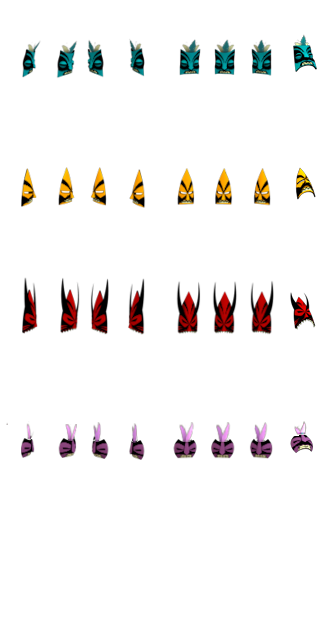
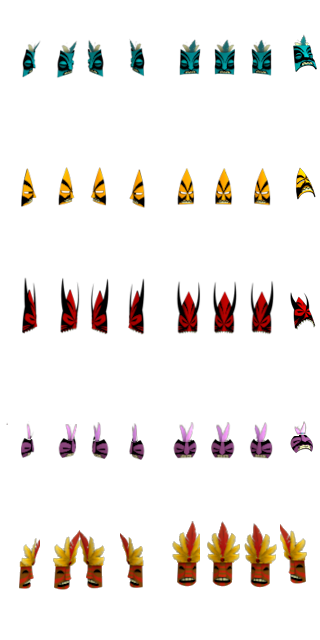
VV3 masks: chief atlas per-frame anchoring + preview-size parity
Chief mask row (heathen_masks.png):
- Build the chief atlas row with VV2's per-frame anchoring instead of one
  global origin. The chief's 8 source facings are vertically staggered and
  drift horizontally, so a single (CANVAS_DX,CANVAS_DY) only seated facing 0
  and the rest rendered blank. Now each chief face is detected as a connected
  component (numpy-only, no scipy dep) and re-anchored so its face-band centre-x
  and chin-bottom land where the corresponding blue facing's do, neutralising
  the stagger. Facing 7 (missing from the art) is mirrored from facing 1.
- CHIEF_DX=-2 live-tuned nudge (chief seats 2px left).

Change Appearance preview cyclers (cross-game size parity, VV2 canonical):
- Mask preview strip: autocrop + fit into (40-2*PAD)x(65-2*PAD), PAD=2 (~90%
  cell fill) so the mask reads the same size in every game once each game's
  identical 40x65 source cell scales into the shared boxes. Rebuild also picks
  up the now-populated chief cell (was blank).
- Dialog 213 (per-villager): restructured to the canonical 3 equal 70x118
  columns (Body/Head/Mask), dialog 364x196 -- mask preview was 50x74, smaller
  than Body/Head.
- Dialog 214 (for-All): preview boxes 55x78 -> 50x74 to match the canonical
  for-All size.

diff --git a/scripts/build_vv3_mask_atlas_separate.py b/scripts/build_vv3_mask_atlas_separate.py
@@ -9,41 +9,143 @@ Source: the user's hand-aligned port canvases (assets/vv3_heathen_masks/
 mask_<color>.png, 520x1286), where the VV3 head origin is at canvas (106, 1149)
 -- verified by a 100% pixel match of the ginger reference head (male_heads row
 22). Each mask is placed at x=0 (native alignment) with a vertical LIFT so the
-draw's matching lift (lift = (headY*54)>>7 ~= 42*scale) seats the face on the
-head and lets the feathers rise above it. Each cell is clipped so a profile mask
-never bleeds into its neighbour frame.
+draw's matching lift (lift = (headY*34)>>7) seats the face on the head and lets
+the feathers rise above it. Each cell is clipped so a profile mask never bleeds
+into its neighbour frame.
 
 Atlas: 8 cols (facings) x 5 rows (masks), cell 40x128 -> 320x640.
-Rows (mask byte +0xED0 -> atlas row byte-1): 0 blue,1 orange,2 red,3 purple,4 chief.
+Rows (mask byte value -> atlas row byte-1): 0 blue,1 orange,2 red,3 purple,4 chief.
 
-The chief uses a staggered per-frame canvas and is handled by its own path
-(pending un-stagger); its row is left transparent here.
+CHIEF row -- per-frame anchoring (VV2's method, added 2026-08-23):
+The blue/orange/red/purple canvases lay their 8 facings out on a clean uniform
+grid (each facing's face sits at the SAME baseline y ~1182), so one global origin
+(CANVAS_DX,CANVAS_DY) drops all 8 into their cells correctly. The CHIEF canvas is
+different: its 8 facings are STAGGERED vertically (facings 2/4/6 sit ~46px lower)
+and drift horizontally, so a single origin only matches facing 0 and the rest fall
+outside their cells (rendering BLANK). Fix: detect each chief face independently
+(connected component), then re-anchor it so its face-band centre-x and chin-bottom
+land exactly where the corresponding BLUE facing's do -- neutralising the stagger.
+The chief art supplies 7 facings (0..6); facing 7 (a right profile) is missing, so
+it is produced by horizontally mirroring facing 1. Feathers are ignored when
+computing the horizontal anchor (they lean and would skew it); the chin-bottom is
+used for the vertical anchor. Detection is numpy-only (no scipy) so the builder is
+self-contained.
 """
 from __future__ import annotations
 
+from collections import deque
 from pathlib import Path
 
+import numpy as np
 from PIL import Image
 
 CELL_W, CELL_H = 40, 128
 COLS, ROWS = 8, 5
 LIFT = 42
 CANVAS_DX, CANVAS_DY = 106, 1149          # head-frame-0 origin in the port canvas
-STRAIGHT = ["blue", "orange", "red", "purple"]   # rows 0..3; chief (row 4) pending
-# chief is vertically STAGGERED per frame (the chief head sprite sits differently
-# than regular heads), so the uniform (CANVAS_DX,CANVAS_DY) composite misaligns it
-# -- needs the 8 chief frames re-stacked to a common origin like the other masks,
-# or per-frame alignment to the chief head positions.
-ORDER = ["blue", "orange", "red", "purple", "chief"]
+STRAIGHT = ["blue", "orange", "red", "purple"]   # rows 0..3: clean uniform grid
+ORDER = ["blue", "orange", "red", "purple", "chief"]  # chief = row 4 (per-frame)
+ALPHA_THR = 24                            # opaque cutoff for face detection
+FACEBAND_FRAC = 0.40                      # lower 40% of a blob = face (ignore feathers)
+CHIEF_MIRROR_SRC = 1                      # facing 7 missing -> mirror facing 1
+CHIEF_DX = -2                             # live-tuned nudge (px): chief seats 2px left
+CHIEF_DY = 0                              # live-tuned nudge (px): +down / -up
 
 SRC = Path(__file__).resolve().parents[1] / "assets" / "vv3_heathen_masks"
+
+
+def _label_faces(alpha: np.ndarray):
+    """numpy-only 4-connected component labelling; returns face dicts sorted L->R."""
+    visited = np.zeros_like(alpha, dtype=bool)
+    h, w = alpha.shape
+    faces = []
+    for sy in range(h):
+        for sx in range(w):
+            if not alpha[sy, sx] or visited[sy, sx]:
+                continue
+            q = deque([(sy, sx)])
+            visited[sy, sx] = True
+            pts = []
+            while q:
+                y, x = q.popleft()
+                pts.append((y, x))
+                for dy, dx in ((1, 0), (-1, 0), (0, 1), (0, -1)):
+                    ny, nx = y + dy, x + dx
+                    if 0 <= ny < h and 0 <= nx < w and alpha[ny, nx] and not visited[ny, nx]:
+                        visited[ny, nx] = True
+                        q.append((ny, nx))
+            if len(pts) < 30:             # ignore stray specks
+                continue
+            ys = np.array([p[0] for p in pts]); xs = np.array([p[1] for p in pts])
+            faces.append(dict(ys=ys, xs=xs, x0=xs.min(), x1=xs.max(),
+                              y0=ys.min(), y1=ys.max()))
+    faces.sort(key=lambda f: (f["x0"] + f["x1"]) / 2.0)
+    return faces
+
+
+def _faceband_cx(face) -> float:
+    """x-centroid of the lower FACEBAND_FRAC of the blob (chin/face, not feathers)."""
+    ys, xs = face["ys"], face["xs"]
+    cut = face["y1"] - FACEBAND_FRAC * (face["y1"] - face["y0"])
+    sel = ys >= cut
+    return float(xs[sel].mean()) if sel.any() else float(xs.mean())
+
+
+def _blue_targets():
+    """Per-facing (face-band cx, chin-bottom y) from the aligned blue canvas."""
+    arr = np.array(Image.open(SRC / "mask_blue.png").convert("RGBA"))
+    faces = _label_faces(arr[:, :, 3] > ALPHA_THR)
+    return [dict(cx=_faceband_cx(f), bottom=f["y1"]) for f in faces]
+
+
+def _chief_cell(fidx: int, face, carr: np.ndarray, targets) -> Image.Image:
+    """Place one detected chief face into cell fidx, anchored to blue facing fidx."""
+    cell = Image.new("RGBA", (CELL_W, CELL_H), (0, 0, 0, 0))
+    sub = carr[face["y0"]:face["y1"] + 1, face["x0"]:face["x1"] + 1].copy()
+    m = np.zeros(sub.shape[:2], dtype=bool)
+    m[face["ys"] - face["y0"], face["xs"] - face["x0"]] = True
+    sub[~m] = 0
+    fimg = Image.fromarray(sub, "RGBA")
+    scx = _faceband_cx(face) - face["x0"]     # source anchor within the crop
+    sby = face["y1"] - face["y0"]
+    t = targets[fidx]                          # target anchor within cell fidx
+    ax = t["cx"] - CANVAS_DX - fidx * CELL_W + CHIEF_DX
+    ay = t["bottom"] - CANVAS_DY + LIFT + CHIEF_DY
+    cell.alpha_composite(fimg, (int(round(ax - scx)), int(round(ay - sby))))
+    return cell
+
+
+def _build_chief_row(atlas: Image.Image, ri: int):
+    targets = _blue_targets()
+    carr = np.array(Image.open(SRC / "mask_chief.png").convert("RGBA"))
+    faces = _label_faces(carr[:, :, 3] > ALPHA_THR)
+    # map each detected chief face to its nearest blue facing by face-band x
+    bx = [t["cx"] for t in targets]
+    by_facing, used = {}, set()
+    for f in faces:
+        cx = _faceband_cx(f)
+        k = min((j for j in range(COLS) if j not in used),
+                key=lambda j: abs(bx[j] - cx))
+        by_facing[k] = f
+        used.add(k)
+    for f in range(COLS):
+        if f in by_facing:
+            cell = _chief_cell(f, by_facing[f], carr, targets)
+        else:                                  # missing facing -> mirror a present one
+            cell = _chief_cell(f, by_facing[CHIEF_MIRROR_SRC], carr,
+                               targets).transpose(Image.FLIP_LEFT_RIGHT)
+        atlas.paste(cell, (f * CELL_W, ri * CELL_H))
+    return sorted(by_facing.keys())
 
 
 def build() -> Path:
     atlas = Image.new("RGBA", (CELL_W * COLS, CELL_H * ROWS), (0, 0, 0, 0))
     for ri, name in enumerate(ORDER):
-        if name not in STRAIGHT:
-            continue                       # chief: staggered, handled separately
+        if name == "chief":
+            present = _build_chief_row(atlas, ri)
+            print(f"  chief row: per-frame anchored, facings present {present}, "
+                  f"facing {[f for f in range(COLS) if f not in present]} mirrored")
+            continue
         port = Image.open(SRC / f"mask_{name}.png").convert("RGBA")
         # translate canvas(CANVAS_DX,CANVAS_DY) -> cell top (0,0), then + LIFT in y
         shifted = Image.new("RGBA", (CELL_W * COLS, CELL_H), (0, 0, 0, 0))
@@ -54,7 +156,7 @@ def build() -> Path:
     out = SRC / "heathen_masks.png"
     atlas.save(out)
     print(f"heathen_masks.png: {atlas.size} (cell {CELL_W}x{CELL_H}, "
-          f"{COLS} cols x {ROWS} rows; chief row pending un-stagger)")
+          f"{COLS} cols x {ROWS} rows; chief row per-frame anchored)")
     return out
 
 

diff --git a/scripts/build_vv3_mask_preview_bmp.py b/scripts/build_vv3_mask_preview_bmp.py
@@ -32,17 +32,23 @@ MASK_ROWS = 5
 # and centred.  Source is VV3's OWN mask atlas so the picker art matches exactly
 # what renders in game.
 MASK_CELL_W, MASK_CELL_H = 40, 65
+# Cross-game parity (VV2 canonical): autocrop the mask blob and fit it into a
+# (40-2*PAD) x (65-2*PAD) window centred in the 40x65 cell -- the mask fills ~90%
+# of the cell in every game, so it reads the same size once each game's identical
+# 40x65 source cell is scaled into the shared preview boxes.
+MASK_PAD = 2
 DEFAULT_SRC = Path(__file__).resolve().parents[1] / "assets" / "vv3_heathen_masks" / "heathen_masks.png"
 
 
 def build(src_path: Path) -> Path:
     sheet = Image.open(src_path).convert("RGBA")
     strip = Image.new("RGB", (MASK_CELL_W * (MASK_ROWS + 1), MASK_CELL_H), BACKGROUND)
+    fit_w, fit_h = MASK_CELL_W - 2 * MASK_PAD, MASK_CELL_H - 2 * MASK_PAD
     for r in range(MASK_ROWS):
         x = FRONT_FRAME * SRC_CELL_W
         cell = sheet.crop((x, r * SRC_CELL_H, x + SRC_CELL_W, r * SRC_CELL_H + SRC_CELL_H))
         content = cell.crop(cell.getbbox())          # tight native content
-        scale = min(MASK_CELL_W / content.width, MASK_CELL_H / content.height)
+        scale = min(fit_w / content.width, fit_h / content.height)
         nw, nh = max(1, int(round(content.width * scale))), max(1, int(round(content.height * scale)))
         content = content.resize((nw, nh), Image.LANCZOS)
         base = Image.new("RGBA", (MASK_CELL_W, MASK_CELL_H), BACKGROUND + (255,))
